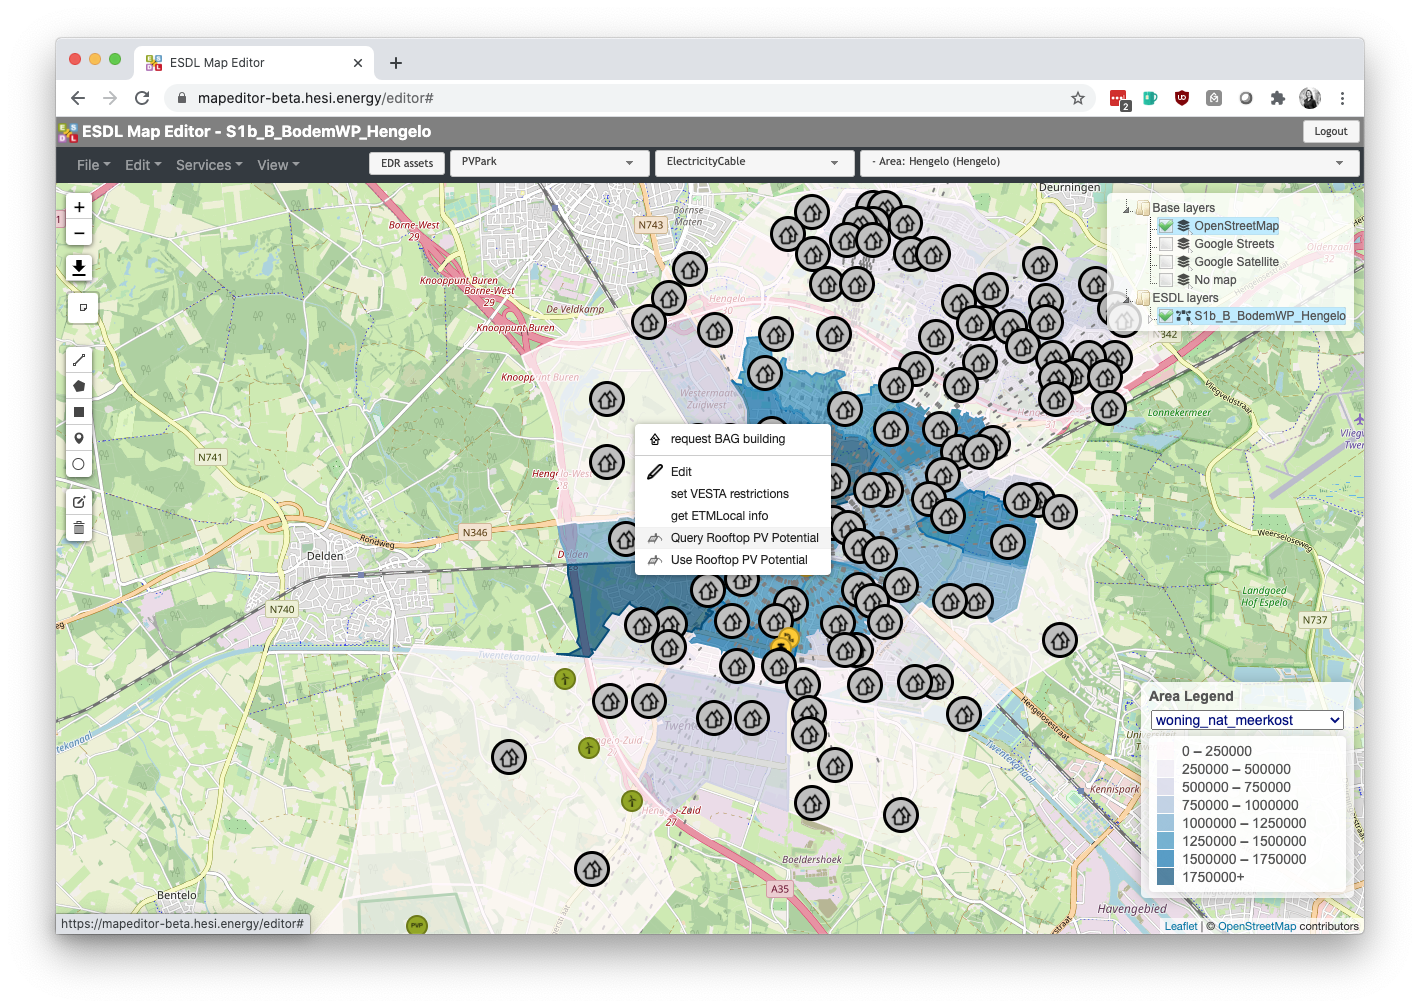
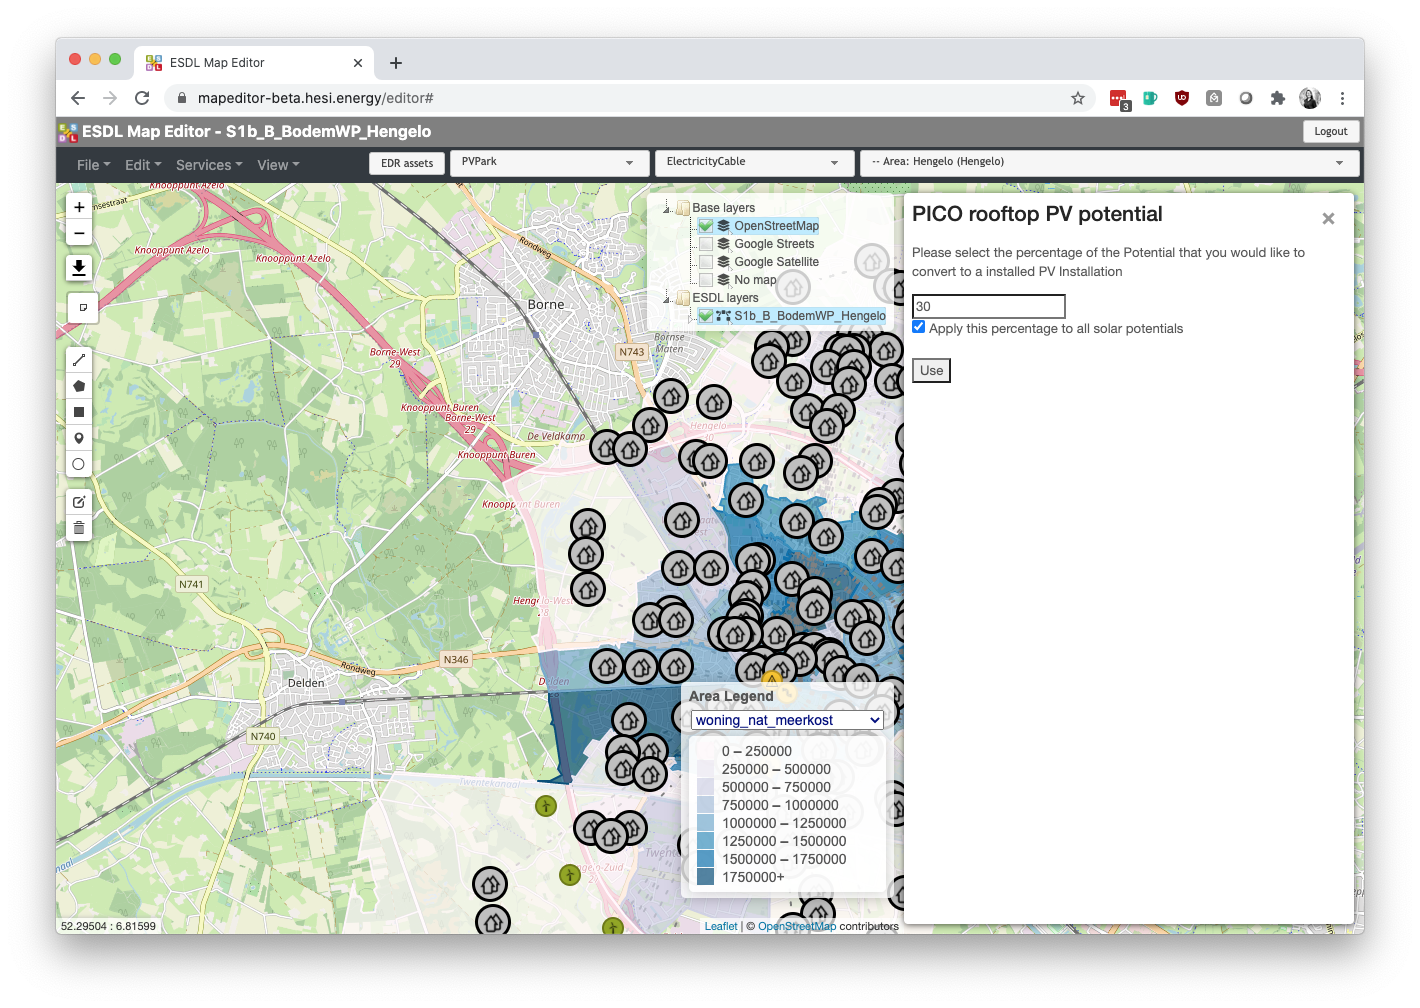
Elaborate on the features paragraph

diff --git a/README.md b/README.md
@@ -68,7 +68,7 @@ Summarizing, the ETM:
 
 By using the Mondaine suite, users of the ETM are able to exploit the strengths of other models:
 
-* The Map Editor allows to geographically create or edit a scenario and convert it into an ETM scenario. Also, it allows to provide a geographical impression of assumptions made in an ETM scenario. For instance, it allows users to explore the spatial impact of assumptions on the installed capacity of wind turbines and/or solar PV parks.
+* The ESDL MapEditor allows to geographically create or edit a scenario and convert it into an ETM scenario. Also, it allows to provide a geographical impression of assumptions made in an ETM scenario. For instance, it allows users to explore the spatial impact of assumptions on the installed capacity of wind turbines and/or solar PV parks.
 
 * Vesta-MAIS is used to calculate the impact of heat transition plans for the built environment on a very detailed level. By using the Mondaine suite, these plans can be aggregated and converted into an ETM scenario. This makes it possible to build further upon the results from Vesta-MAIS.
 
@@ -119,32 +119,37 @@ For each topic, we'll go a bit more in depth below.
 
 #### *1. Renewable electricity (wind turbines, solar PV parks)*
 
-WIP
-
-* Bekijk hoe de keuzes voor wind en zon op land samenhangen in het energiesysteem (elektriciteitsbalans, etc.)
+The ESDL MapEditor provides a service by Geodan to [explore spatial possibilities for large scale wind and solar](https://esdl-mapeditor-documentation.readthedocs.io/en/latest/example_workflows/exploring_spatial_possibilities_for_large_scale_wind_and_solar.html). Afterwards, one may [add one or more assets from the Energy Data Repository](https://esdl-mapeditor-documentation.readthedocs.io/en/latest/basic_tasks/adding_assets_from_the_edr.html) in order to place ETM onshore windturbines or solar PV parks within these search areas. The ESDL MapEditor allows the user to adjust the technical specifications of these production assets, such as the installed capacity or the number of full load hours. These values are then updated in the ESDL energy system.
 
 ![](images/wind_1.png)
 ![](images/wind_2.png)
-![](images/pv_park_1.png)
-![](images/pv_park_2.png)
+<!--![](images/pv_park_1.png)
+![](images/pv_park_2.png)-->
+
+When calling the ETM service, this information is processed and converted into the corresponding input values. Here, the installed capacity in our ETM scenario is set based on the three 3 MW wind turbines that were added to the ESDL. The ETM allows the user to easily explore the impact of the production by these wind turbines on the electricity balance. What is the share of the wind production compared to the total electricity demand? What is the impact of doubling the installed capacity? How realistic is the ambition for an energy neutral energy system?
+
+![](images/wind_3.png)
 
 
 #### *2. Solar PV on rooftops*
 
-WIP
-
-* Bekijk hoe de keuzes voor zon op dak samenhangen in het energiesysteem
+Another service by Geodan that is hosted by the ESDL MapEditor is the possibility to [explore the potential for rooftop PV panels](https://esdl-mapeditor-documentation.readthedocs.io/en/latest/example_workflows/exploring_roof_pv_panels_potential.html). The service allows the user to query the full rooftop solar potential after which the user can decide which percentage of the potential will be used in the future scenario, i.e. what share of the potential is [converted into actual installations](https://esdl-mapeditor-documentation.readthedocs.io/en/latest/example_workflows/exploring_roof_pv_panels_potential.html#converting-potential-to-actual-installations).
 
 ![](images/rooftop_pv_1.png)
 ![](images/rooftop_pv_2.png)
 
+This percentage is processed by the ETM service and converted into input values for solar PV on rooftops of both residences and services. 
+
+![](images/rooftop_pv_3.png)
+![](images/rooftop_pv_4.png)
+
 #### *3. Heat transition built environment*
 
-WIP
+Vesta-MAIS is used to calculate the impact of heat transition plans for the built environment. These plans can be aggregated and converted into a heating technology mix both for residences and services--i.e. input values for the future share of residences/services with a (hybrid) heat pump or heat network connection. Also, energy savings are taken into account here. Based on the future energy labels by Vesta-MAIS the input values for heat reduction are set in the ETM.
 
-* Bekijk hoe de keuzes voor de warmtetransitie samenhangen in het energiesysteem
-
-![](images/heat_transition_1.png)
+<!--![](images/heat_transition_1.png)-->
+![](images/heat_transition_2.png)
+![](images/heat_transition_3.png)
 
 #### *4. System integration*
 
